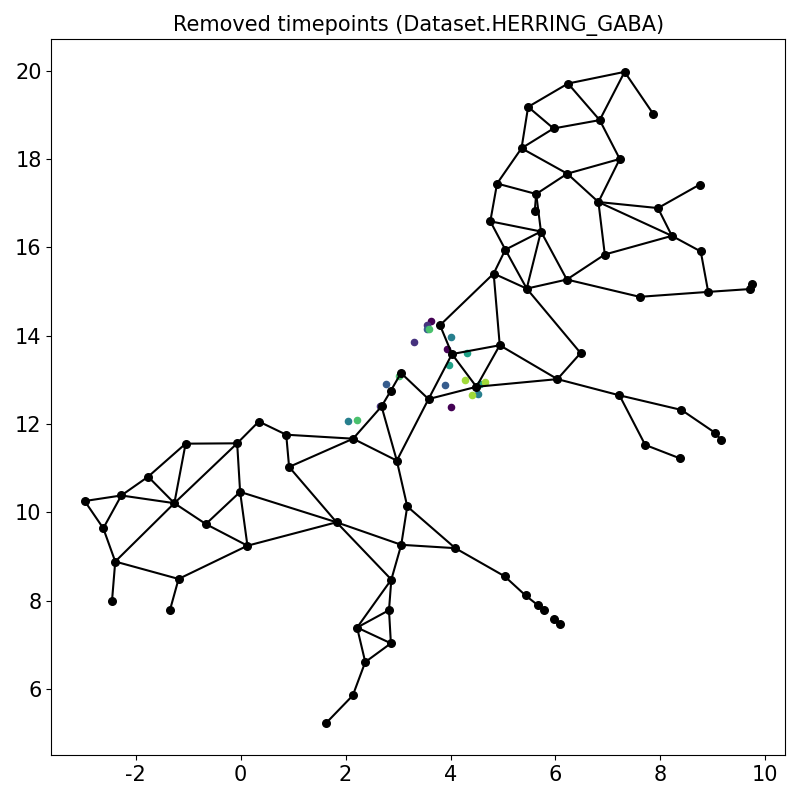
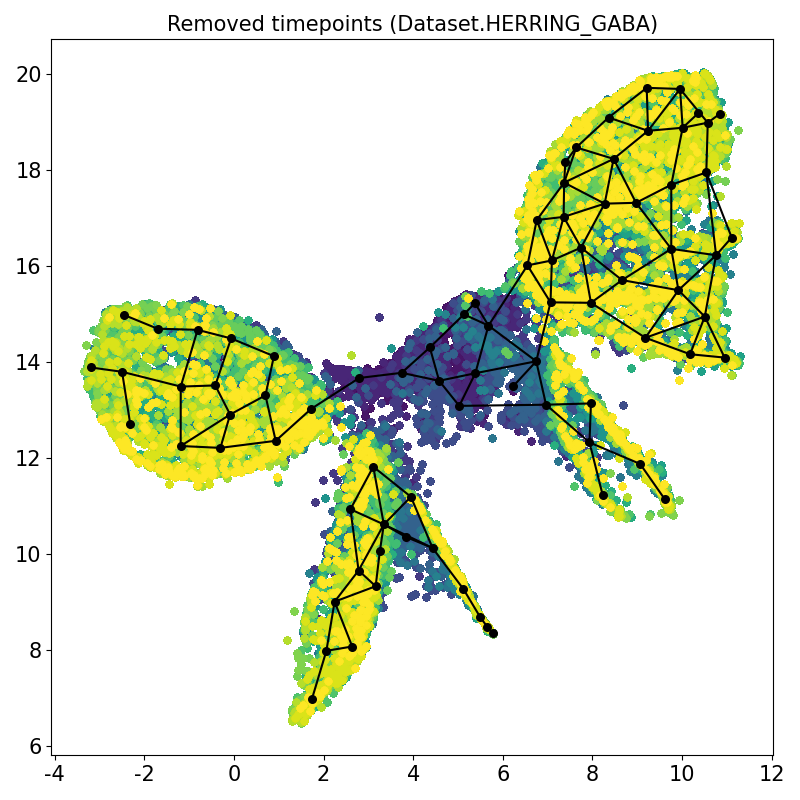
Finish the PAGA corrections

diff --git a/benchmark/test_dataset.py b/benchmark/test_dataset.py
@@ -190,12 +190,12 @@ def visualize_umap_embeds(all_recon_obs, traj_data):
     print("Compute metrics...")
     test_tps_list = [int(t) for t in test_tps]
     for t in test_tps_list:
-        logging.debug("-" * 70)
-        logging.debug("t = {}".format(t))
+        logging.info("-" * 70)
+        logging.info("t = {}".format(t))
         # -----
         pred_global_metric = globalEvaluation(traj_data[t].detach().numpy(), all_recon_obs[:, t, :])
         # we'll get all the distances
-        logging.debug(pred_global_metric)
+        logging.info(pred_global_metric)
 
 
 def get_umap_embed(all_recon_obs, traj_data, train_data, train_tps):
@@ -211,14 +211,6 @@ def get_umap_embed(all_recon_obs, traj_data, train_data, train_tps):
     print("Compare true and reconstructed data...")
     true_data = [each.detach().numpy() for each in traj_data]
     
-    print(f'Length of the trajectory at timestep 0')
-    print(len(traj_data[0]))
-    exit()
-    
-    # basically create true_cell_tps and pred_cell_tps which will be annotations for both the true data and predicted ones
-    # true_cell_tps = np.concatenate([np.repeat(t, each.shape[0]) for t, each in enumerate(true_data)])
-    # pred_cell_tps = np.concatenate([np.repeat(t, all_recon_obs[:, t, :].shape[0]) for t in range(all_recon_obs.shape[1])])
-
     # it's now that we have an array of length t of 2000 cells x genes
     reorder_pred_data = [all_recon_obs[:, t, :] for t in range(all_recon_obs.shape[1])]
 
@@ -273,7 +265,7 @@ def get_umap_embed(all_recon_obs, traj_data, train_data, train_tps):
     all_ann_data = annotate_data(true_umap_traj, all_cell_tps)
     removed_ann_data = annotate_data(removed_model_traj, removed_tps)
     aug_ann_data = annotate_data(aug_traj, aug_cell_tps)
-    return (all_ann_data, true_umap_traj), (removed_ann_data, removed_model_traj), (aug_ann_data, aug_traj)
+    return (all_ann_data, true_umap_traj, all_cell_tps), (removed_ann_data, removed_model_traj, removed_tps), (aug_ann_data, aug_traj, aug_cell_tps)
 
 
 def get_paga_graph(ann_data, traj_data):
@@ -296,9 +288,9 @@ def get_paga_graph(ann_data, traj_data):
     return data_node_pos, data_edge, data_conn
 
 
-def plot_paga(data, tps, title, save_to):
+def plot_paga(data, title, save_to):
     from plotting import linearSegmentCMap
-    ann_data, traj_data = data
+    ann_data, traj_data, tps = data
 
     print("Neighbors")
     sc.pp.neighbors(ann_data, n_neighbors=5)
@@ -309,7 +301,10 @@ def plot_paga(data, tps, title, save_to):
 
     data_node_pos, data_edge, data_conn = get_paga_graph(ann_data, traj_data)
 
-    color_list = linearSegmentCMap(len(tps), "viridis")
+    unique_tps = np.unique(tps).astype(int).tolist()
+    n_tps = len(unique_tps)
+
+    color_list = linearSegmentCMap(n_tps, "viridis")
     fig, ax = plt.subplots(figsize=(8, 8))
     ax.set_title(title)
     for t_idx, t in enumerate(tps):
@@ -318,20 +313,22 @@ def plot_paga(data, tps, title, save_to):
             traj_data[cell_idx, 0], traj_data[cell_idx, 1],
             color=color_list[t_idx], s=20, alpha=1.0
         )
-    # ax.scatter(data_node_pos[:, 0], data_node_pos[:, 1], s=30, color="k", alpha=1.0)
-    # for e in data_edge:
-    #     ax.plot(
-    #         [
-    #             data_node_pos[e[0]][0],
-    #             data_node_pos[e[1]][0]
-    #         ],
-    #         [
-    #             data_node_pos[e[0]][1],
-    #             data_node_pos[e[1]][1]
-    #         ],
-    #         "k-",
-    #         lw=1.5
-    #     )
+
+    # the extra graph
+    ax.scatter(data_node_pos[:, 0], data_node_pos[:, 1], s=30, color="k", alpha=1.0)
+    for e in data_edge:
+        ax.plot(
+            [
+                data_node_pos[e[0]][0],
+                data_node_pos[e[1]][0]
+            ],
+            [
+                data_node_pos[e[0]][1],
+                data_node_pos[e[1]][1]
+            ],
+            "k-",
+            lw=1.5
+        )
 
     plt.tight_layout()
     plt.savefig(save_to) # can set dpi for better resolution
@@ -366,19 +363,16 @@ def predict_cell_traj(all_recon_obs, traj_data, train_data, train_tps, all_tps, 
 
     all_conn = plot_paga(
         all_data,
-        all_tps,
         f"Original ({data_name})",
         save_to=f'figs/original_paga_{data_name}.png'
     )
     removed_conn = plot_paga(
         removed_data,
-        train_tps,
         f"Removed timepoints ({data_name})",
         save_to=f'figs/removed_paga_{data_name}.png'
     )
     aug_conn = plot_paga(
         aug_data,
-        all_tps,
         f"Augmented timepoints ({data_name})",
         save_to=f'figs/aug_paga_{data_name}.png'
     )
@@ -394,7 +388,7 @@ if __name__ == '__main__':
     # Configure basic logging
     logging.basicConfig(
         filename=log_filename,
-        level=logging.DEBUG,                        # Minimum severity to log
+        level=logging.INFO,                        # Minimum severity to log
         format="%(asctime)s [%(levelname)s] %(name)s: %(message)s",  # Format
         datefmt="%Y-%m-%d %H:%M:%S",               # Time format
     )
@@ -444,6 +438,7 @@ if __name__ == '__main__':
         visualize_umap_embeds(all_recon_obs, traj_data)
 
     if args.traj_view:
+        print(tps)
         predict_cell_traj(all_recon_obs, traj_data, train_data, train_tps, tps, data_name)
 
     print(f'Finish everything')
